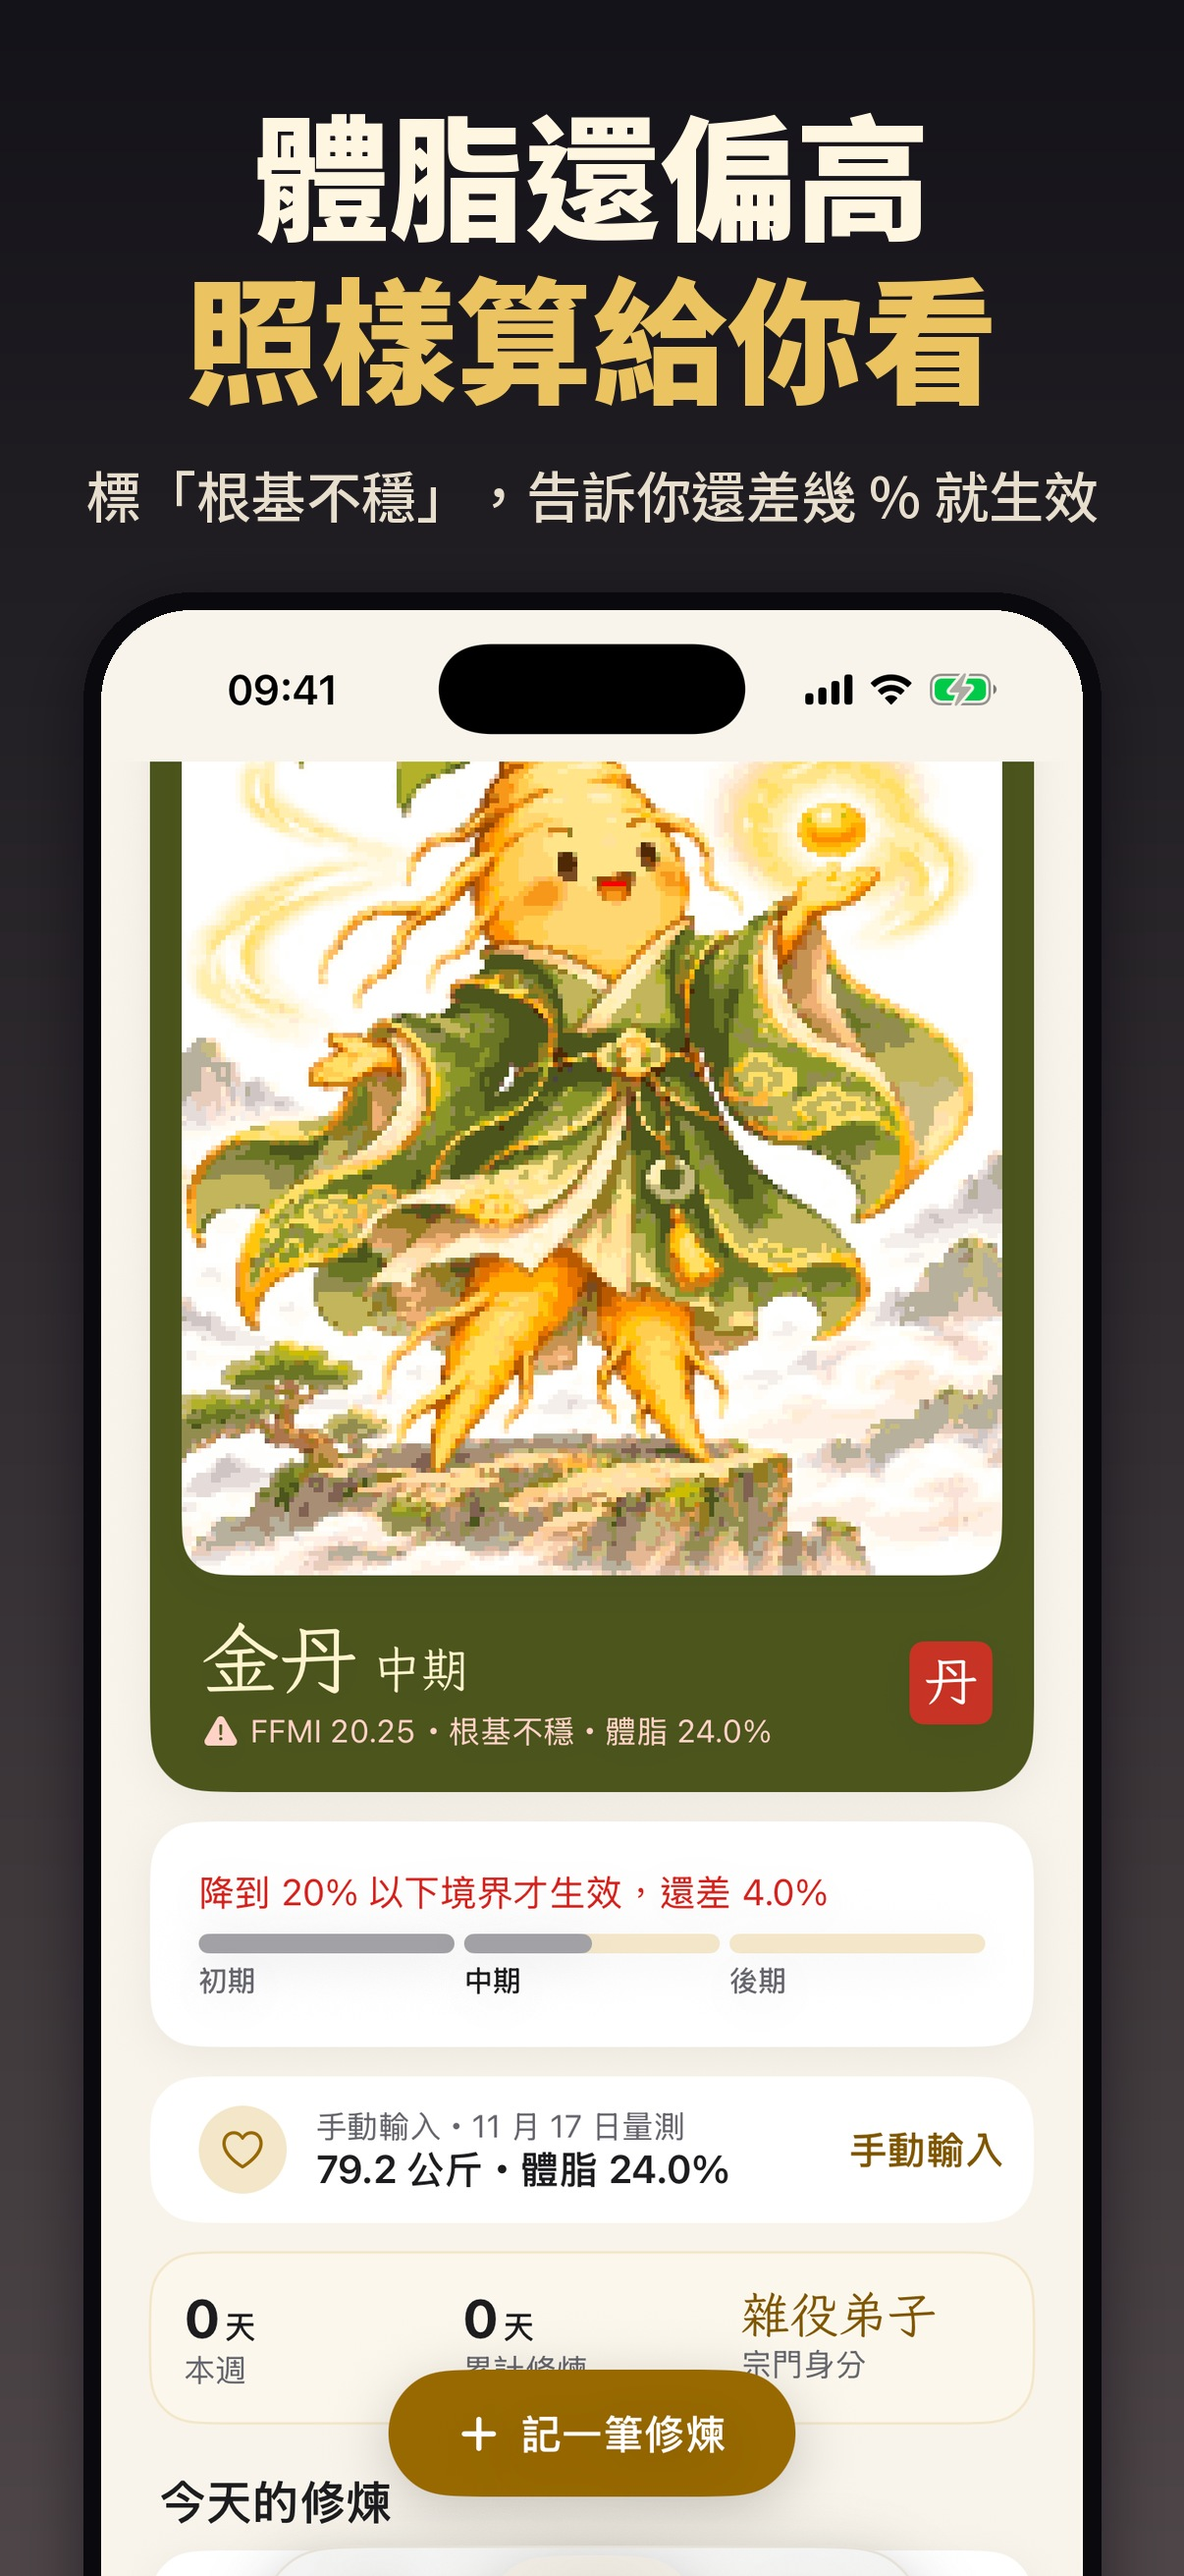
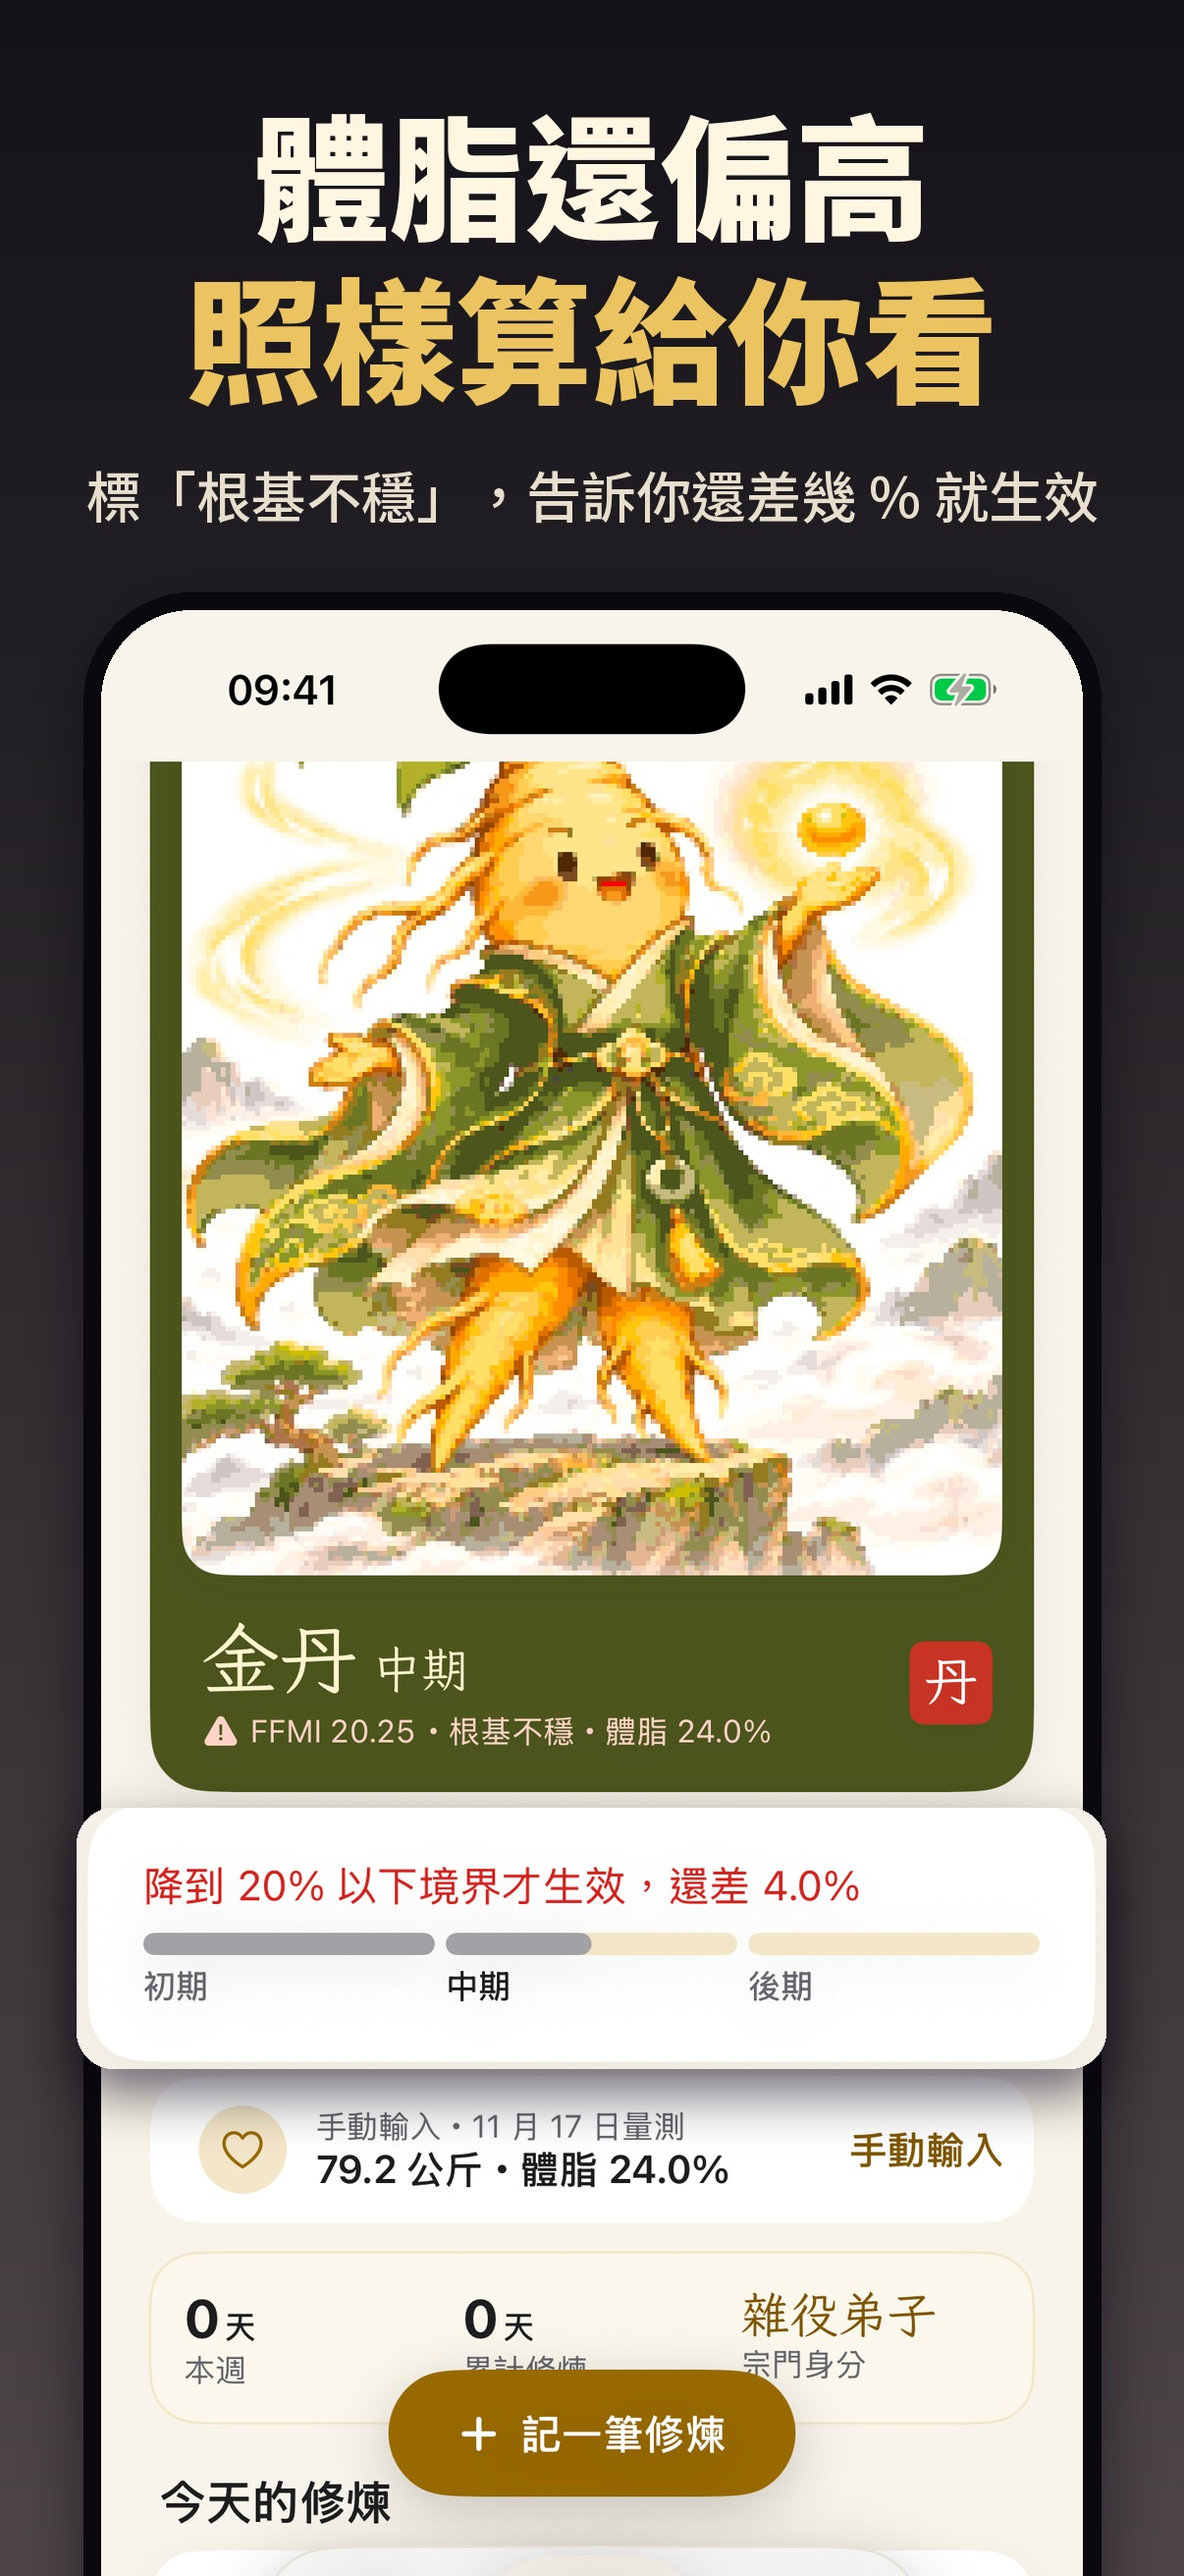
[上架] 商店截圖六張加放大浮出（參考茄記、蒜日子、豆鍵）

Changed region(s): [[0.0614, 0.6796, 0.9511, 0.8341]]

diff --git a/.vibe/tools/store_shots.py b/.vibe/tools/store_shots.py
@@ -31,18 +31,25 @@ SIZES = {"6.3": (1206, 2622), "6.9": (1320, 2868)}
 PAID = "付費造型"
 
 # name 檔名｜raw 真機截圖｜title 大標（兩行，第二行金色）｜sub 描述句｜badge 小標｜top 手機上緣（1206 寬時的 y）
+# 2026-11-27 多米說太醜、重點不凸顯（參考茄記、蒜日子、豆鍵）：每張除了慶祝都用 pop 把要講的那塊放大浮出來
 # pop 把截圖裡的一塊放大、跳出手機外：(x0, y0, x1, y1, 倍率, 圓角)，座標是真機截圖上的像素｜ring 圈出一顆鈕 (x, y, 半徑)
 SHOTS = [
     dict(name="01-realm", raw="1-realm.png", hero=True, title=["練到哪一境"], sub="量一次就知道",
          pills=["不用註冊", "男女各一套標準", "健康 app 自動帶入"]),
     dict(name="02-celebration", raw="2-celebration.png", title=["突破那一刻", "手機會震一下"],
          sub="第一次入道、升一期、跨大境界，都有全螢幕慶祝"),
-    dict(name="03-next", raw="3-next-stage.png", title=["下一期", "還差幾公斤肌肉"], sub="用身高校正過的 FFMI 算，不只看體重"),
-    dict(name="04-unstable", raw="5-unstable.png", title=["體脂還偏高", "照樣算給你看"], sub="標「根基不穩」，告訴你還差幾 % 就生效"),
-    dict(name="05-log", raw="6-log-lift.png", title=["練完記四格", "不用填一堆"], sub="功法、重量、次數、組數，記完就算等級"),
-    dict(name="06-moves", raw="7-moves.png", title=["十二門功法", "各有等級"], sub="深蹲叫坐馬樁、硬舉叫拔山式，從未入門練到化境"),
-    dict(name="07-data", raw="8-data.png", title=["不用註冊", "資料只在手機"], sub="換手機用匯出檔帶走，量測從健康 app 重建"),
-    dict(name="08-styles", raw="10-styles.png", title=["十一種造型", "換一種畫風"], sub="水墨、鎏金、青花瓷，境界碑和慶祝畫面跟著換"),
+    dict(name="03-next", raw="3-next-stage.png", title=["下一期", "還差幾公斤肌肉"], sub="用身高校正過的 FFMI 算，不只看體重",
+         pop=(48, 750, 1158, 1050, 1.14, 40)),
+    dict(name="04-unstable", raw="5-unstable.png", title=["體脂還偏高", "照樣算給你看"], sub="標「根基不穩」，告訴你還差幾 % 就生效",
+         pop=(48, 1490, 1158, 1772, 1.14, 40)),
+    dict(name="05-log", raw="6-log-lift.png", title=["練完記四格", "不用填一堆"], sub="功法、重量、次數、組數，記完就算等級",
+         pop=(48, 1900, 1158, 2100, 1.16, 40)),
+    dict(name="06-moves", raw="7-moves.png", title=["十二門功法", "各有等級"], sub="深蹲叫坐馬樁、硬舉叫拔山式，從未入門練到化境",
+         pop=(50, 1625, 595, 2200, 1.4, 48)),
+    dict(name="07-data", raw="8-data.png", title=["不用註冊", "資料只在手機"], sub="換手機用匯出檔帶走，量測從健康 app 重建",
+         pop=(48, 700, 1158, 1040, 1.14, 40)),
+    dict(name="08-styles", raw="10-styles.png", title=["十一種造型", "換一種畫風"], sub="水墨、鎏金、青花瓷，境界碑和慶祝畫面跟著換",
+         pop=(48, 1582, 1158, 2032, 1.14, 40)),
     # 2026-11-27 Apple 以 2.3.7 退件：截圖不能寫價格，「免費」「付費」也算。原本副標「原版免費。記錄、算境界全部免費，
     # 付費的只有造型」加一顆「付費造型」標，兩個都拿掉。要講免費請寫在描述裡（Apple 退件信建議的）。
 ]
